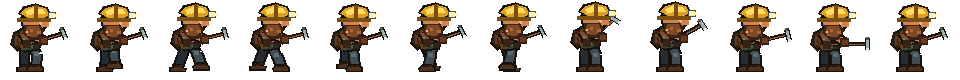
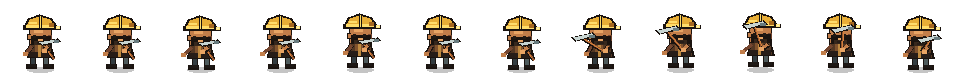
polish(player): make miner sprite chibi

diff --git a/src/game/player/PlayerMiner.ts b/src/game/player/PlayerMiner.ts
@@ -36,9 +36,9 @@ export class PlayerMiner {
 
     this.dustShadow = scene.add.ellipse(0, 18, 26, 8, 0x03070d, 0.46);
 
-    this.lampGlow = scene.add.ellipse(17, -27, 22, 14, 0xffdf85, 0.12);
+    this.lampGlow = scene.add.ellipse(12, -17, 18, 11, 0xffdf85, 0.12);
     this.lampGlow.setBlendMode(Phaser.BlendModes.ADD);
-    this.helmetGlow = scene.add.ellipse(17, -27, 7, 5, 0xfff2b6, 0.56);
+    this.helmetGlow = scene.add.ellipse(12, -17, 6, 4, 0xfff2b6, 0.56);
     this.helmetGlow.setBlendMode(Phaser.BlendModes.ADD);
 
     this.body = scene.add.sprite(0, 16, "player-miner", 0);
@@ -55,7 +55,7 @@ export class PlayerMiner {
       this.dustShadow,
       this.rig,
     ]);
-    this.sprite.setSize(34, 52);
+    this.sprite.setSize(30, 42);
   }
 
   setMining(active: boolean) {
@@ -119,13 +119,13 @@ export class PlayerMiner {
     this.body.scaleX = 0.62 + landingRatio * 0.03;
     this.body.scaleY = 0.62 - landingRatio * 0.04;
 
-    this.lampGlow.x = 17 + runSwing * 0.45;
-    this.lampGlow.y = -27 + idleBob * 0.35;
+    this.lampGlow.x = 12 + runSwing * 0.45;
+    this.lampGlow.y = -17 + idleBob * 0.35;
     this.lampGlow.alpha = 0.12 + Math.sin(this.animationTime * 8.5) * 0.04;
     this.lampGlow.scaleX = 1 + Math.sin(this.animationTime * 7.8) * 0.07;
     this.lampGlow.scaleY = 1 + Math.cos(this.animationTime * 7.8) * 0.07;
-    this.helmetGlow.x = 17 + runSwing * 0.35;
-    this.helmetGlow.y = -27 + idleBob * 0.28;
+    this.helmetGlow.x = 12 + runSwing * 0.35;
+    this.helmetGlow.y = -17 + idleBob * 0.28;
     this.helmetGlow.alpha = 0.62 + Math.sin(this.animationTime * 10) * 0.1;
   }
 
